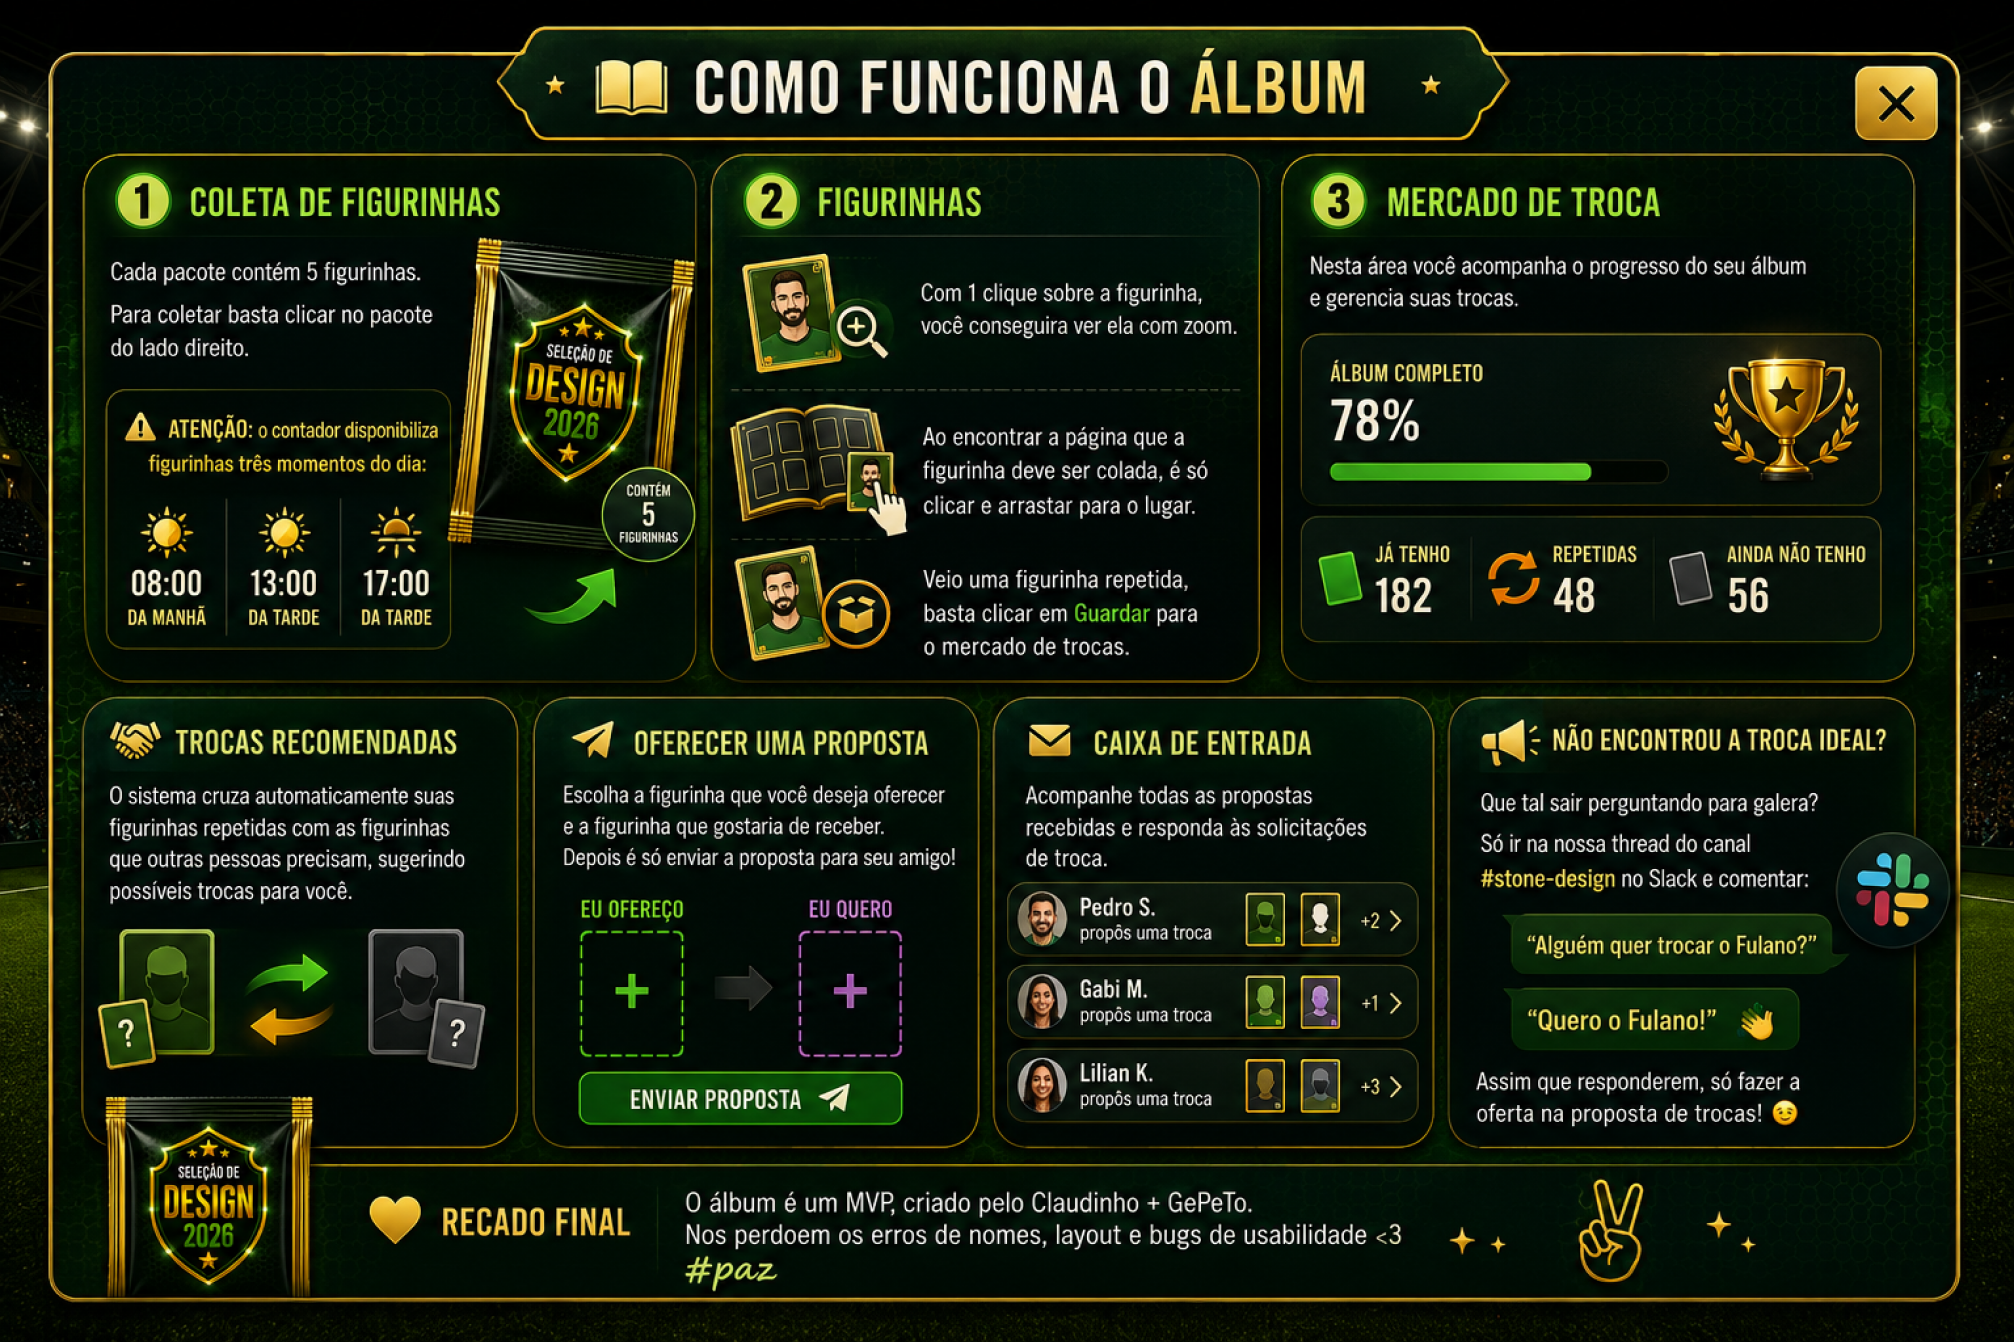
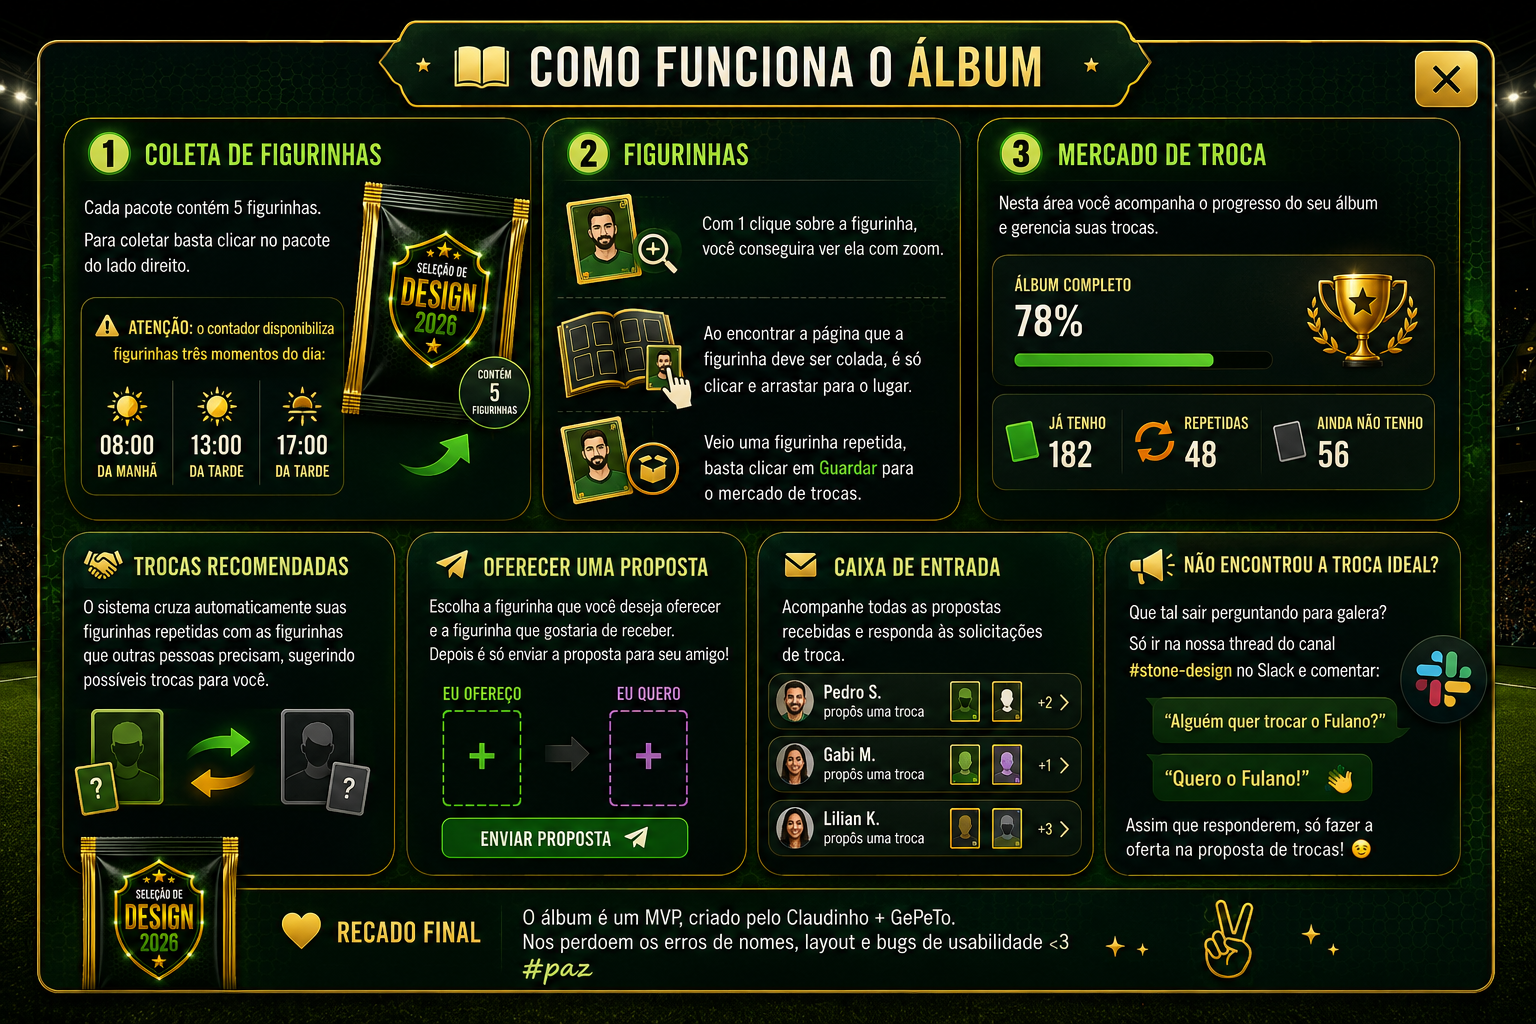
fix: atualiza imagem e posição do botão X nas instruções

diff --git a/index.html b/index.html
@@ -396,8 +396,8 @@ body{background:#4a6b4a}
 <!-- INSTRUCTIONS MODAL -->
 <div id="instructions-modal" style="display:none;position:fixed;inset:0;top:64px;background:rgba(28,31,35,0.92);z-index:10000;align-items:center;justify-content:center;overflow-y:auto" onclick="if(event.target===this)closeInstructions()">
   <div style="position:relative;display:inline-block;line-height:0;margin:24px auto">
-    <img src="instrucoes-de-uso.png" alt="Instruções de uso" style="max-width:min(1007px,calc(100vw - 48px));max-height:calc(100vh - 64px - 48px);width:auto;height:auto;border-radius:12px;display:block">
-    <button onclick="closeInstructions()" style="position:absolute;top:12px;right:12px;width:36px;height:36px;border-radius:8px;background:rgba(28,31,35,0.85);border:1.5px solid rgba(255,255,255,0.2);color:#fff;font-size:1.1rem;cursor:pointer;display:flex;align-items:center;justify-content:center;line-height:1;transition:.2s;z-index:1" onmouseover="this.style.background='rgba(60,60,60,0.95)'" onmouseout="this.style.background='rgba(28,31,35,0.85)'">✕</button>
+    <img src="instrucoes-de-uso.png" alt="Instruções de uso" style="max-width:min(1007px,calc(100vw - 96px));max-height:calc(100vh - 64px - 48px);width:auto;height:auto;border-radius:12px;display:block">
+    <button onclick="closeInstructions()" style="position:absolute;top:0;right:-52px;width:40px;height:40px;border-radius:8px;background:#000b07;border:none;color:rgba(255,255,255,0.85);font-size:1.2rem;cursor:pointer;display:flex;align-items:center;justify-content:center;line-height:1;transition:.2s;z-index:1" onmouseover="this.style.color='#fff';this.style.background='#0d1f14'" onmouseout="this.style.color='rgba(255,255,255,0.85)';this.style.background='#000b07'">✕</button>
   </div>
 </div>
 